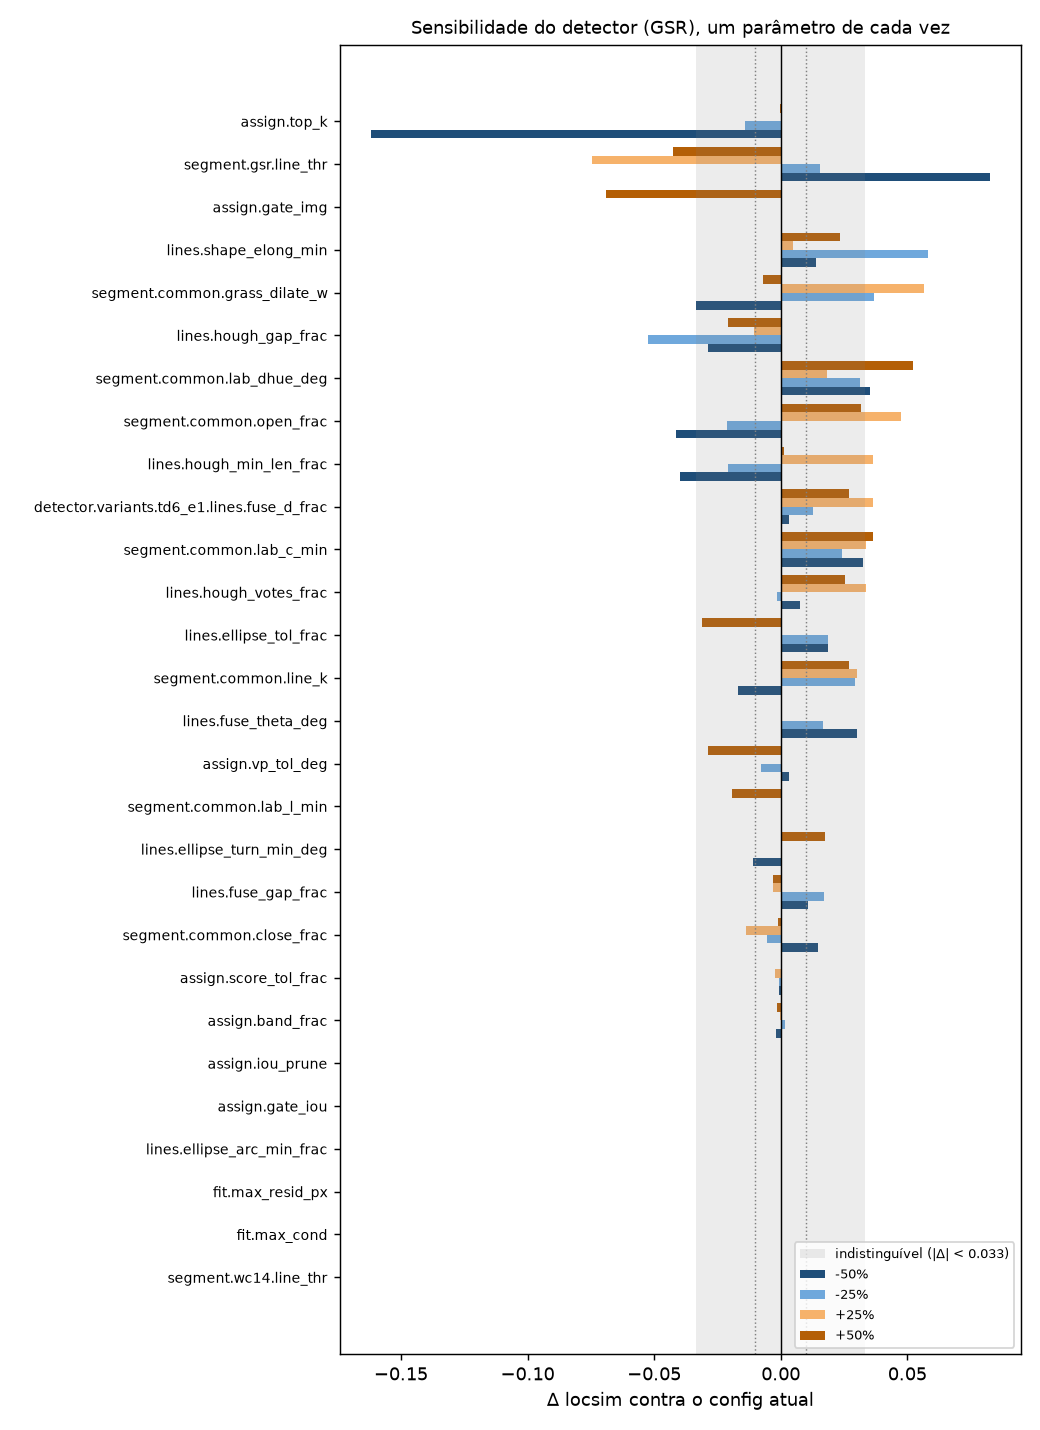
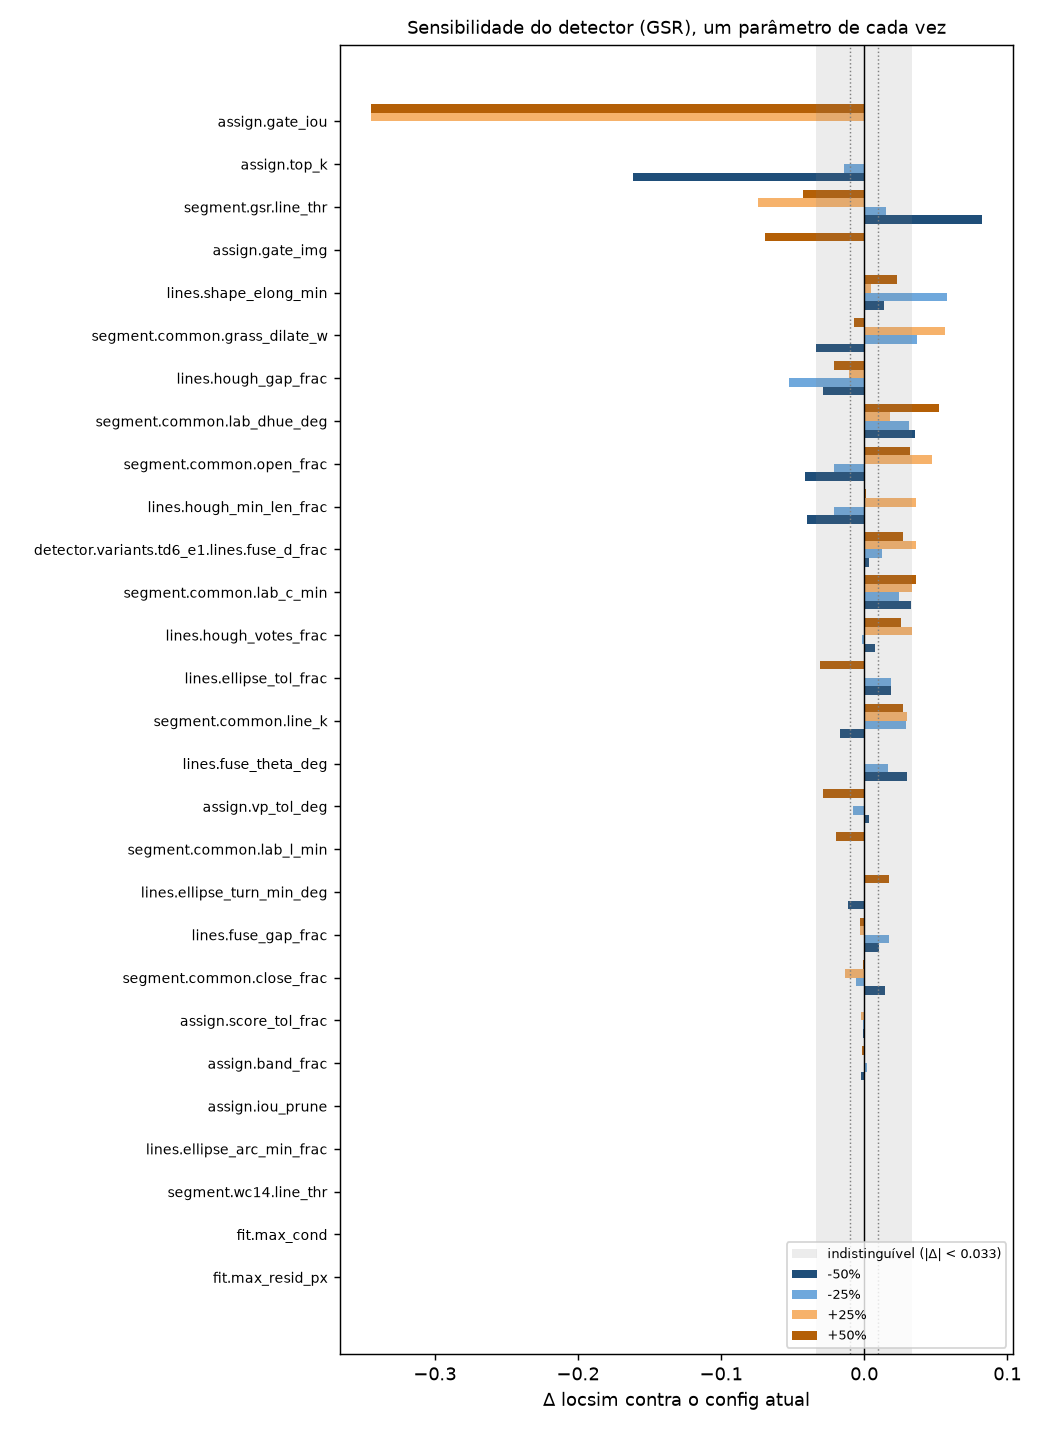
Fatia 8 (preparação): LocSim penalizado sem H, OpenBLAS e ajustes do plano
- evaluate.summarize: o LocSim@5 penalizado vale 0 quando nenhum frame tem H
  (antes, NaN). Chave do 6c regravada com conferência (4c10b4cf1a1e ->
  8c9599c7b961); nos resumos refeitos dos caches, todo valor que não era NaN
  ficou idêntico (84.444), e 186 recortes sem H passaram de NaN a 0.
- executor: OPENBLAS_NUM_THREADS = executor.worker_blas_threads (1) nos
  trabalhadores; H idênticas bit a bit com e sem, em 100 frames (detector e
  6c); a memória confirmada cai de ~1,15 GB para ~0,16 GB por trabalhador.
- Checkpoints da confirmação: 135 tarefas recalculadas idênticas bit a bit, as
  outras 1.014 com a chave regravada; refeitos o gate_iou da sensibilidade, a
  tabela de âncoras do 6c e a tabela importa/não importa.
- line_thr 15 recusado (efeito de sinal oposto entre os jogos do train).
- 03-plano: Fatia 8 aprovada com os ajustes (T2, bootstrap por jogo, T9 de
  custo ao lado da tabela 6 do AuxFlow, agregação da T5, 8.0 e 8.7).

diff --git a/src/sensitivity.py b/src/sensitivity.py
@@ -377,12 +377,11 @@ def _confirm_task(args):
 
 def _arrays(rows):
     """Por frame/imagem: com H_gt, com H, soma do LocSim@5 das pessoas, nº de pessoas,
-    NPE e IoU_whole (NaN sem H); hasd: frame com distâncias do LocSim (com H e pessoas)."""
+    NPE e IoU_whole (NaN sem H)."""
     from src.evaluate import locsim
     g = lambda k: np.array([r.get(k, np.nan) for r in rows], float)
     return dict(gt=np.array([r["has_gt"] for r in rows], bool), pred=np.array([r["has_pred"] for r in rows], bool),
                 ls5=np.array([locsim(r["locsim_d"], 5).sum() if "locsim_d" in r else 0.0 for r in rows]),
-                hasd=np.array(["locsim_d" in r for r in rows], bool),
                 npers=np.array([r["n_pessoas"] for r in rows], float), npe=g("npe"), iou=g("iou_whole"))
 
 
@@ -393,7 +392,7 @@ def _metric(a, m, ix=None):
     if m == "cobertura":
         return (a["gt"] & a["pred"]).sum() / a["gt"].sum()
     if m == "locsim":
-        return a["ls5"].sum() / a["npers"].sum() if a["npers"].sum() and a["hasd"].any() else np.nan     # como summarize
+        return a["ls5"].sum() / a["npers"].sum() if a["npers"].sum() else np.nan     # como summarize: sem H, 0
     v = a[m][a["gt"] & a["pred"]]
     return np.nanmedian(v) if np.isfinite(v).any() else np.nan
 

diff --git a/src/executor.py b/src/executor.py
@@ -9,6 +9,7 @@ no fim da CLI) sai com código != 0 se houve alguma.
 """
 import hashlib
 import json
+import os
 import sys
 import threading
 import time
@@ -17,7 +18,7 @@ from concurrent.futures import ProcessPoolExecutor, ThreadPoolExecutor
 from datetime import datetime
 from pathlib import Path
 
-from src.config import ROOT, path
+from src.config import CFG, ROOT, path
 
 FAILURES = []            # falhas desta execução (processo principal)
 # Impressão digital do código: bytes de todos os src/*.py, lidos UMA vez, na importação
@@ -130,7 +131,13 @@ class SafeMap:
 
 
 class SafeProcessPool(SafeMap, ProcessPoolExecutor):
-    pass
+    """Os trabalhadores herdam o ambiente ao nascer, e o numpy lê OPENBLAS_NUM_THREADS na
+    importação: a variável vai para o ambiente antes do primeiro trabalhador (o processo
+    principal, que já importou o numpy, não muda)."""
+
+    def __init__(self, *a, **k):
+        os.environ["OPENBLAS_NUM_THREADS"] = str(CFG["executor"]["worker_blas_threads"])
+        super().__init__(*a, **k)
 
 
 class SafeThreadPool(SafeMap, ThreadPoolExecutor):

diff --git a/tests/test_executor.py b/tests/test_executor.py
@@ -2,6 +2,7 @@
 para o manifesto e deixa o código de saída != 0. Com threads (sem pool de processos no
 pytest); o código de saída é conferido num subprocesso."""
 import json
+import os
 import subprocess
 import sys
 
@@ -78,3 +79,13 @@ def test_worker_with_other_fingerprint_fails_before_running():
     assert not ok and res is None and "código diferente do processo principal" in err["erro"] and ran == []
     ok, res, err, _ = executor._call(_task, (1,), executor.FINGERPRINT)
     assert ok and res == 10 and err is None
+
+
+def test_process_pool_sets_worker_blas_threads(monkeypatch):
+    """O pool põe OPENBLAS_NUM_THREADS no ambiente antes de criar os trabalhadores (que o
+    herdam). Sem tarefa, nenhum processo nasce: o teste não abre pool de processos."""
+    from src.config import CFG
+    monkeypatch.setenv("OPENBLAS_NUM_THREADS", "16")
+    with executor.SafeProcessPool(1) as ex:
+        assert os.environ["OPENBLAS_NUM_THREADS"] == str(CFG["executor"]["worker_blas_threads"])
+        assert not ex._processes

diff --git a/tests/test_evaluate.py b/tests/test_evaluate.py
@@ -62,3 +62,14 @@ def test_kpsfr_protocol_identity():
     m = kpsfr_metrics(H, H)
     assert m["iou_part"] == pytest.approx(1) and m["iou_whole"] == pytest.approx(1)
     assert m["proj_error_m"] == pytest.approx(0, abs=1e-6) and m["reproj_error"] == pytest.approx(0, abs=1e-6)
+
+
+def test_penalized_locsim_without_any_estimate_is_zero():
+    """Pessoa de frame sem H vale 0 (01-metodo), inclusive quando nenhum frame tem H: o
+    penalizado é 0, não NaN. Com uma H, o valor é a soma do LocSim sobre todas as pessoas."""
+    from src.evaluate import summarize
+    rows = [dict(has_gt=True, dubious=False, has_pred=False, has_lines=False, n_pessoas=4) for _ in range(3)]
+    t = summarize(rows)["todos"]
+    assert t["locsim@5 penalizado"] == 0.0 and t["mAP-locsim penalizado"] == 0.0 and "locsim@5" not in t
+    rows[0].update(has_pred=True, locsim_d=np.zeros(4))
+    assert summarize(rows)["todos"]["locsim@5 penalizado"] == pytest.approx(4 / 12)

diff --git a/src/evaluate.py b/src/evaluate.py
@@ -180,7 +180,7 @@ def summarize(rows):
             t["mAP-locsim"] = np.mean([locsim(d, tau).mean() for tau in E["locsim_taus_m"]])
             t["locsim dist (m)"] = (np.mean(d[np.isfinite(d)]), np.median(d))
         n_all = sum(r.get("n_pessoas", 0) for r in rs)
-        if len(d) and n_all:                      # penalizado: pessoa de frame sem H vale 0 (docs/01-metodo.md)
+        if n_all:                                 # penalizado: pessoa de frame sem H vale 0 (docs/01-metodo.md), inclusive se nenhum frame tem H
             t["locsim@5 penalizado"] = float(locsim(d, 5).sum() / n_all)
             t["mAP-locsim penalizado"] = float(np.mean([locsim(d, tau).sum() / n_all for tau in E["locsim_taus_m"]]))
         table[label] = t

diff --git a/docs/03-plano.md b/docs/03-plano.md
@@ -460,18 +460,24 @@ Plano detalhado para revisão de Victor (2026-09-30). **Nada do test roda antes 
 aprovação e do congelamento.**
 
 #### 8.0 Antes do congelamento
-- **Sensibilidade (7d) concluída** e as propostas (ganho ≥ 0,02 no LocSim@5
-  penalizado) **decididas por Victor antes do congelamento**. Uma proposta
-  aceita que mexa no detector invalida a série do detector no train e na
-  valid, e os números das Fatias 5 a 7. Nesse caso, as séries e as tabelas de
-  calibração são refeitas antes de congelar.
+- **Sensibilidade (7d): feita** (2026-10-01). Os candidatos foram confirmados
+  num subconjunto maior, com intervalo por bootstrap (`decisoes.md`). Só o
+  `segment.gsr.line_thr` 15 passou no critério, e **foi recusado por Victor**:
+  o efeito tem sinal oposto entre os 3 jogos do train. Nenhum parâmetro mudou,
+  e a série do detector, a do 6c e os números das Fatias 5 a 7 ficam como estão.
+- **Pendências resolvidas antes do congelamento** (2026-10-01):
+  - o LocSim@5 penalizado dava NaN quando nenhum frame tinha H; o `summarize`
+    foi corrigido e a chave do 6c foi regravada com conferência. Os valores que
+    não eram NaN ficaram idênticos;
+  - `OPENBLAS_NUM_THREADS=1` nos trabalhadores: adotado só se as H saírem
+    idênticas bit a bit com e sem a variável (`decisoes.md`).
 - **HSB:** feito. Transcrito por Victor da tabela 3 do AuxFlow para
   `data_splits/hsb.csv` (`02-dados`). Os 10 clipes estão no test e os
   intervalos cabem; as suposições registradas são a leitura do SNGS-128 e a
   numeração a partir de 0.
-- **Chave do cache da `H_gt` (`gsr._cache_key`), decisão de Victor: corrigir
-  antes do congelamento,** depois da sensibilidade e pelo mesmo procedimento da
-  troca da chave do 6c:
+- **Chave do cache da `H_gt` (`gsr._cache_key`): feita** (2026-10-01). Os 115
+  caches do train e da valid foram recalculados e saíram idênticos em 86.250
+  frames. O procedimento seguiu o da troca da chave do 6c:
   - hash dos bytes dos módulos lido na importação, conferido no trabalhador;
   - regravação da chave dos caches de gabarito do train e da valid, sem
     recalcular, só depois de conferir o código que os gerou;
@@ -528,24 +534,52 @@ de gabarito (teto).
 | T6 | GSR test, por jogo | cobertura; LocSim@5 penalizado do detector e do 6c |
 | T7 | Âncoras no test | candidatas; verificáveis; aceitas; erradas (NPE > 0,05); clipes sem âncora |
 | T8 | Lacunas do detector no test (1–3, 4–25, > 25 frames, pontas) | cobertura e NPE mediano do 6a, do 6c e do 6c sem linhas |
+| T9 | Custo, ao lado da tabela 6 do AuxFlow | perfil por etapa (detector 4,76 s por frame num núcleo no GSR e 2,90 s no WC14; 6c 127 ms por frame); vazão real da rodada do test com 15 processos; tempo por clipe de 750 frames; hardware de cada lado, com a ressalva de CPU contra GPU |
 
 - **T2 (HSB), três medições nos mesmos frames** (decisão de Victor):
-  1. **Propagação isolada:** o 6c iniciado pela H de gabarito no frame inicial
-     do intervalo, só com propagação. No SNGS-128, parte do frame 90 e vai para
-     trás até o 0.
-     - É comparável à tabela 4 do AuxFlow: NBJW sozinho com 43,15% de média e
-       35,93% de mediana; AuxFlow com 83,67% e 96,15%.
+  1. **Só propagação:** o passo normal do 6c (pontos de Lucas–Kanade mais as
+     linhas detectadas em cada frame), a partir da `H_gt_auxflow` no frame
+     inicial do intervalo, **sem nenhuma âncora do detector**. No SNGS-128,
+     parte do frame 90 e vai para trás até o 0.
+     - É o análogo da tabela 4 do AuxFlow (pontos-chave + auxiliares): NBJW
+       sozinho com 43,15% de média e 35,93% de mediana; AuxFlow com 83,67% e
+       96,15%.
      - A H inicial é a `H_gt_auxflow` (RANSAC sobre as pessoas), a mesma das
        métricas comparáveis ao AuxFlow, e a tabela diz isso.
   2. **O nosso detector puro** nos mesmos frames, lado a lado com a coluna do
      NBJW da tabela 3 (`locsim5_nbjw`).
-  3. **O pipeline completo:** o 6c com as nossas âncoras, nos mesmos frames.
+  3. **O pipeline completo:** o 6c com as nossas âncoras, rodado no **clipe
+     inteiro**; só a avaliação fica restrita ao intervalo.
 - **Ressalva obrigatória na T5:** o LocSim deles não tem frames sem H (os dois
   métodos devolvem H em todo frame). O nosso é penalizado (a pessoa de frame
   sem H vale 0), e boa parte do ganho vem da cobertura. Por isso, as colunas
   nos cobertos e no conjunto comum ficam ao lado.
+- **Agregação, dita na T5:** o nosso LocSim é agregado sobre pessoas-frame.
+  Agregar por frame quase não muda a média (conferência de 2026-09-25).
+- **Incerteza** (decisão de Victor): T1, T5 e a fração da distância ao teto
+  levam intervalo de 95% por bootstrap **sorteando jogos** (2.000
+  reamostragens, semente fixa), porque clipes do mesmo jogo não são
+  independentes (o caso do `line_thr`). A tabela diz o número de jogos do test.
+  Com menos de 5 jogos, os números por jogo (T6) vão ao lado, em vez de
+  confiar só no intervalo.
 - **Comparação com o Bassek** (indicador de 0 visíveis): só ordem de grandeza,
   porque os dados e o sistema são diferentes.
+- **T9, o lado do AuxFlow** (tabela 6 deles, transcrita por Victor): tempo por
+  clipe de 750 frames, num i7-8700K com RTX 4090. O "lote" é o tamanho do lote
+  na GPU ou o número de threads.
+
+  | etapa | lote | tempo | FPS |
+  |---|---|---|---|
+  | NBJW keypoints | 8 | 54 s | 13,9 |
+  | NBJW H estimation | 1 | 27 s | 27,8 |
+  | U-Net initialization | 1 | 61 s | 12,3 |
+  | Propagation | 1 | 150 s | 5 |
+  | Overall | – | 292 s | 2,6 |
+
+  Do nosso lado: o detector roda em CPU, em todo frame. Num núcleo, um clipe
+  de 750 frames custa ~3.570 s no detector (4,76 s por frame) mais ~95 s no 6c
+  (127 ms por frame, com GPU). A vazão real com 15 processos sai da rodada do
+  test.
 
 #### 8.4 Números de referência (calibração)
 - **A referência são os 19 clipes do train[::3]**, o conjunto de calibração da
@@ -612,6 +646,11 @@ de gabarito (teto).
   combinação, por jogo; `outputs/segment_variantes_gsr_train+valid.csv`),
   com a nota de que a `valid` serviu para escolha e o número da histerese é
   otimista.
+  - **Confirmação de ponta a ponta** (sensibilidade, 2026-10-01): o
+    `line_thr` 15 no GSR dá +0,127 de LocSim no jogo 4 (contraste baixo) e
+    −0,046 no jogo 9, onde o NPE mediano vai de 0,0056 para 0,0130. É o que a
+    Fatia 3 viu na segmentação: um limiar global contra o contraste de cada
+    jogo. **Trabalho futuro:** um limiar adaptado ao jogo ou ao frame.
 - **Saída:** `python -m src.run --all` reproduz tudo do zero, a partir do
   commit congelado.
 

diff --git a/docs/decisoes.md b/docs/decisoes.md
@@ -748,3 +748,39 @@ Uma linha por decisão não óbvia. Data | decisão | por quê.
   - **Não afetados:** os números agregados das Fatias 5 a 7 (o conjunto inteiro sempre tem alguma H) e a confirmação (nenhum candidato zera a cobertura).
   - **Correção proposta, a decidir:** o `summarize` passa a dar 0 quando há pessoas e nenhuma H. O `evaluate.py` entra na chave do 6c, então a correção pede a regravação conferida das 81 chaves (as linhas guardadas não mudam: só o `summarize` muda), refazer as 8 tarefas do `gate_iou` na sensibilidade do detector e gerar de novo as tabelas.
   | Defeito encontrado; aguarda Victor.
+- 2026-10-01 | **`segment.gsr.line_thr` 15: RECUSADO** (decisão de Victor). O candidato passa no critério (+0,034 [+0,003; +0,065]), mas o intervalo sorteou clipes, e clipes do mesmo jogo não são independentes. Com 3 jogos no train, um é a favor (jogo 4, +0,127), um é neutro (jogo 6, +0,017) e um é contra (jogo 9, −0,046, com o NPE mediano indo de 0,0056 para 0,0130). Não dá para prever os jogos do test, e o custo seria de ~17 h. O limiar fica em 30. O achado por jogo entra no 8.7 (limitações da segmentação por cor) como confirmação de ponta a ponta do que a Fatia 3 viu: um limiar global contra o contraste de cada jogo. O limiar adaptado ao jogo ou ao frame fica como trabalho futuro. | Decisão de Victor.
+- 2026-10-01 | **Bug do LocSim penalizado sem nenhuma H: corrigido** (decisão de Victor: pela definição, vale 0).
+  - **Diff:** só a condição do `summarize`, de `if len(d) and n_all` para `if n_all`. Teste: `test_penalized_locsim_without_any_estimate_is_zero`. O `_metric` da confirmação acompanha a correção.
+  - **Regravação conferida das 81 chaves do 6c:**
+    - antes da edição, git diff vazio nos arquivos da chave e as 81 chaves iguais à atual;
+    - depois, a única diferença nesses arquivos é a linha do `summarize`, que o conteúdo do cache não usa (o `_eval_clip_6c` guarda as linhas do `frame_metrics`, o tremor, as âncoras e as séries);
+    - chave `4c10b4cf1a1e` → `8c9599c7b961`.
+  - **Resumos refeitos a partir dos caches** (train[::3], valid e subconjunto; por variante, clipe, jogo, lacuna, conjunto comum e clipes com âncora; 1.464 resumos):
+    - os 84.444 valores que existiam antes ficaram **idênticos**, e nenhum valor fora de NaN mudou;
+    - em 186 recortes (372 contando as versões "todos" e "sem duvidosos"), o LocSim@5 penalizado e o mAP penalizado passaram a existir e **valem 0**. Todos são recortes sem nenhuma H por construção: o detector nas próprias lacunas (76) e fora do conjunto comum (3), os clipes sem âncora nas variantes do 6c (89 por clipe e 16 por lacuna) e dois clipes da valid em que o detector não acerta nenhum frame;
+    - nas tabelas, "sem H" ou NaN vira 0,000, e nenhum número agregado muda.
+  | Correção de defeito.
+- 2026-10-01 | **`OPENBLAS_NUM_THREADS=1` nos trabalhadores: adotado** (decisão de Victor, condicionada à identidade bit a bit).
+  - **Checagem:** H com e sem a variável, idênticas bit a bit:
+    - detector em 50 frames do GSR (subconjunto da regressão; 21 com H) e 50 imagens do WC14 (28 com H);
+    - 6c em 50 frames do SNGS-099 (300–349; âncoras 302 e 348, H nos 50).
+  - **Implementação:** `executor.worker_blas_threads: 1` no config. O `SafeProcessPool` põe a variável no ambiente antes de criar os trabalhadores, que a herdam e a leem ao importar o numpy. O processo principal não muda. Teste: `test_process_pool_sets_worker_blas_threads`.
+  - **Efeito medido:** a memória confirmada por trabalhador caiu de ~1.150 MB para ~160 MB, e o commit do sistema, com 10 trabalhadores, ficou em 55%, contra 85% antes.
+  | Decisão de Victor.
+- 2026-10-01 | **Plano da Fatia 8 aprovado por Victor, com ajustes** (aplicados no `03-plano`):
+  - (a) a medição 1 da T2 é "só propagação", o passo normal do 6c a partir da `H_gt_auxflow`, sem âncora do detector;
+  - (b) na medição 3 da T2, o 6c roda no clipe inteiro e só a avaliação fica no intervalo;
+  - (c) T1, T5 e a fração da distância ao teto levam intervalo de 95% por bootstrap sorteando jogos (2.000 reamostragens, semente fixa), com o número de jogos do test na tabela; com menos de 5 jogos, a T6 vai ao lado;
+  - (d) nova T9, de custo, ao lado da tabela 6 do AuxFlow, transcrita por Victor no `03-plano`;
+  - (e) a T5 diz que o LocSim é agregado sobre pessoas-frame;
+  - (f) o 8.0 foi atualizado.
+  | Decisão de Victor.
+- 2026-10-01 | **Checkpoints da confirmação depois da correção do NaN e do OpenBLAS.** A chave deles cobre os fontes de `src/` e o config fora da seção `sensitivity`, e mudou (`1c1f98a9e654` → `f207a359faa7`).
+  - **Recálculo:** foram recalculados pelo executor, com o código novo e o OpenBLAS em 1, o config atual do detector (78 tarefas: 57 clipes do GSR e 21 blocos do WC14) e o 6c inteiro (57 tarefas). Saíram **idênticos bit a bit** ao backup (`outputs/cache/confirm_antes_nan`), linhas e H.
+  - **Regravação:** com isso, a chave das outras 1.014 tarefas (candidatos do detector) foi regravada com conferência; cada arquivo só foi regravado com a chave antiga exata.
+  - **Tabelas refeitas:** as agregações (`--confirm 6c`, `--confirm detector`), as 10 tarefas do `gate_iou` na sensibilidade do detector (o config atual reproduz a referência) e a tabela "importa". Contra a versão commitada, mudaram só:
+    - o `gate_iou` +25% e +50% no GSR: Δ LocSim de NaN para −0,345;
+    - a coluna do LocSim do `gate_iou` na tabela "importa": 0,345, com a classificação inalterada;
+    - a tabela de âncoras do 6c: o SNGS-069 com `verify_window` −50% passa de NaN para −0,713 (o clipe perde todas as H), e o SNGS-060 e o 066, sem âncora no atual e no candidato, passam de NaN para Δ 0.
+  - **Sem mudança:** a confirmação do detector, a do 6c, o WC14 e a sensibilidade do 6c.
+  | Medição.
